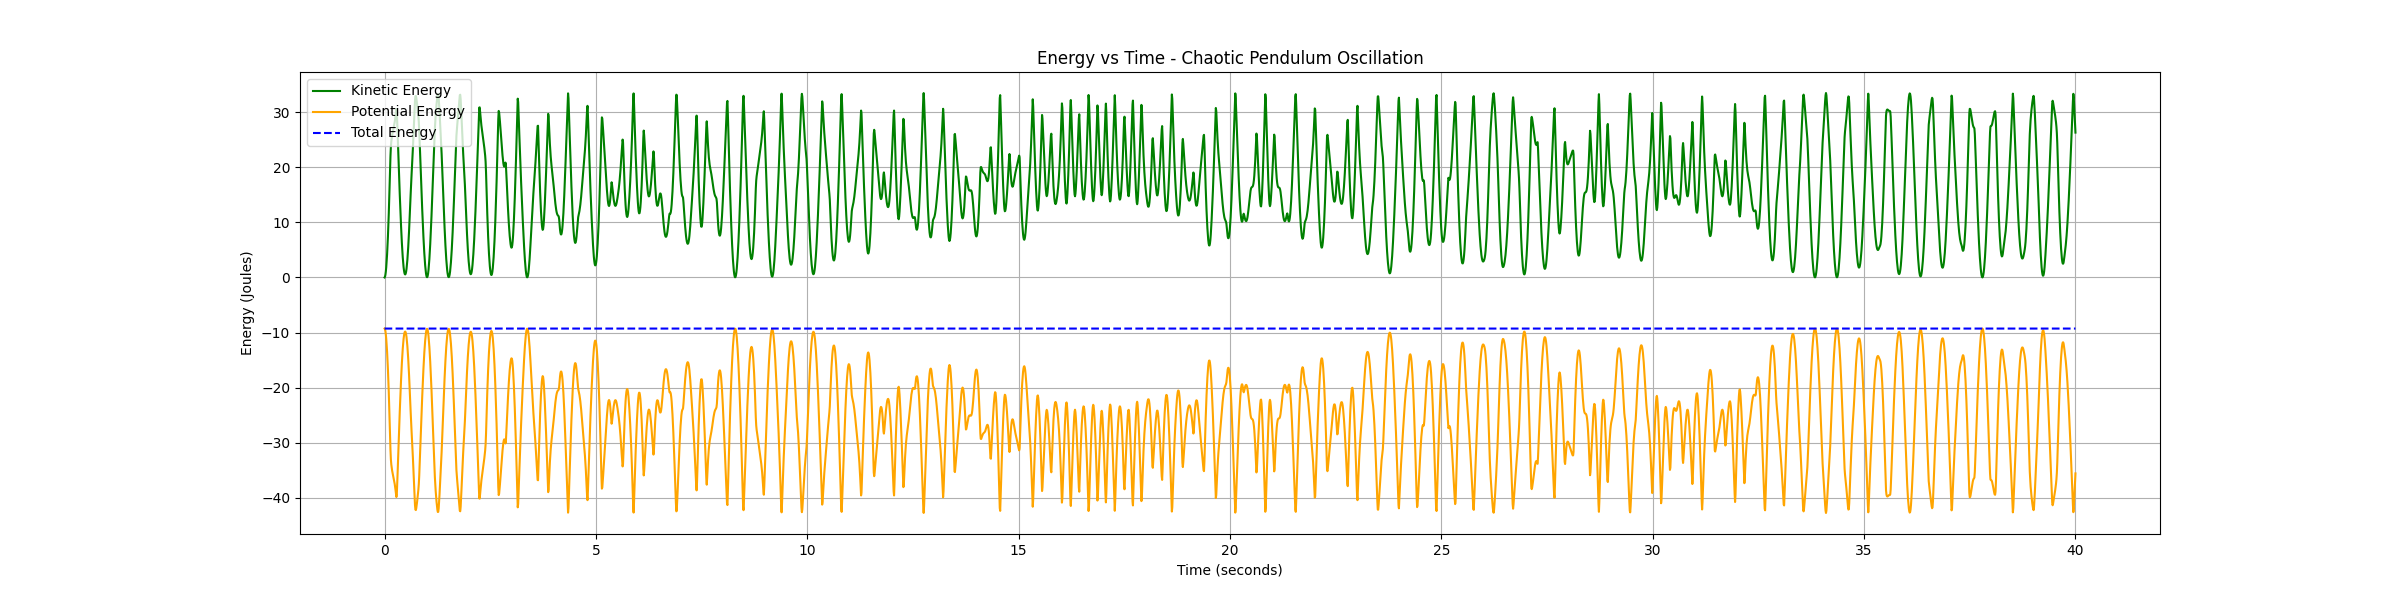
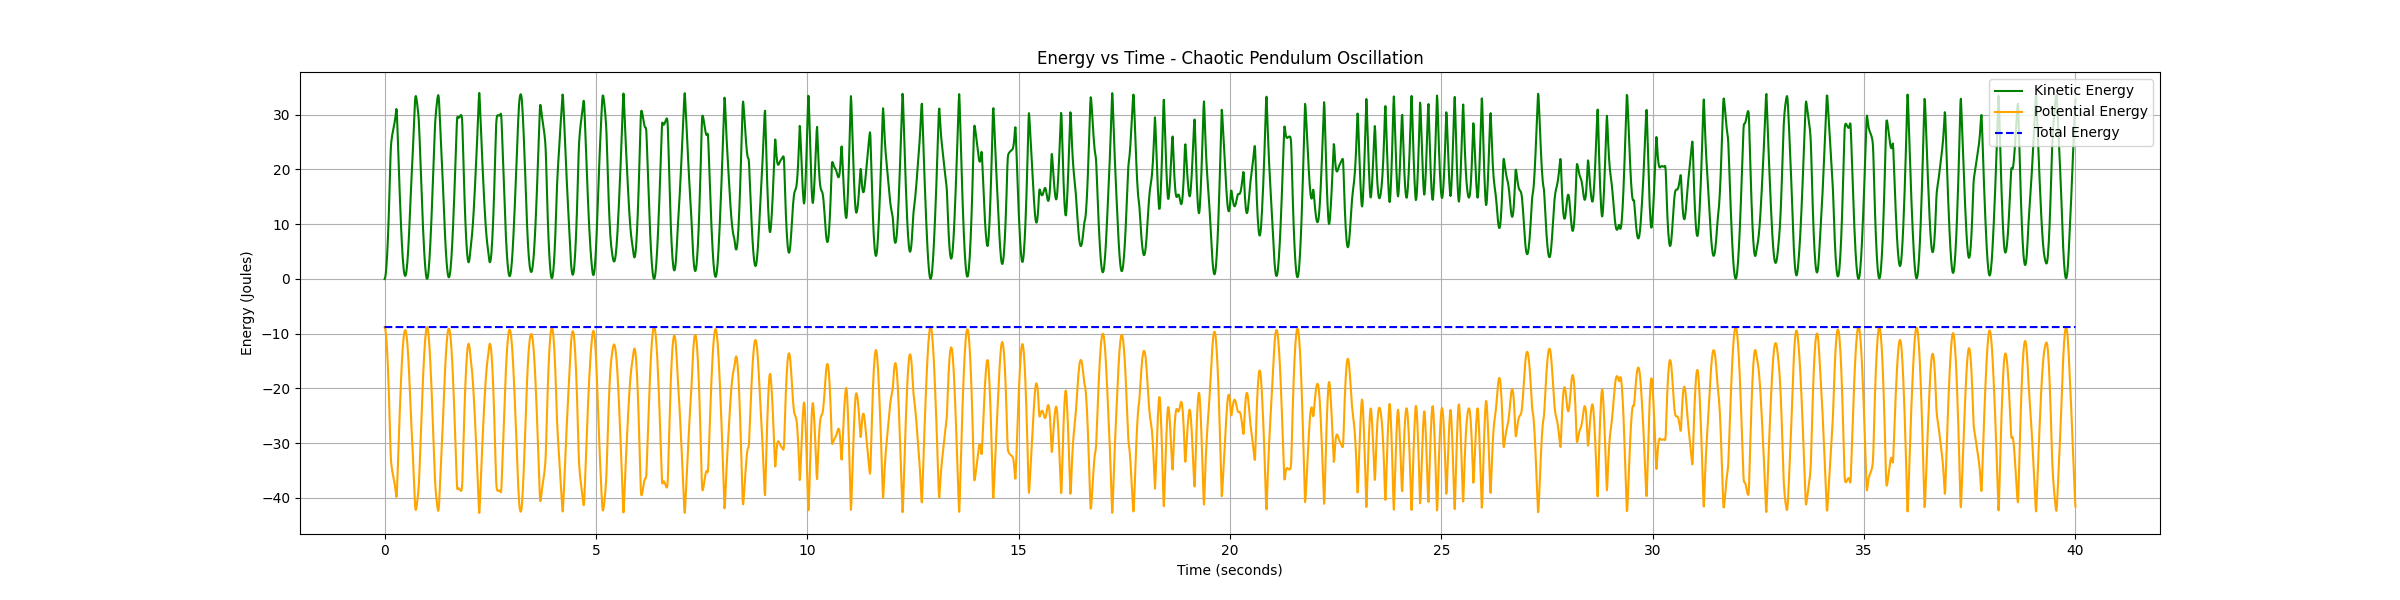
Add verification step

Changed region(s): [[0.0938, 0.12, 0.9062, 0.48], [0.125, 0.54, 0.875, 0.84]]

diff --git a/Simulations/simulation.py b/Simulations/simulation.py
@@ -5,15 +5,18 @@ from matplotlib.animation import FuncAnimation, PillowWriter
 from typing import NamedTuple, Tuple, List
 import math
 import os
+import json
+import hashlib
 
 CONFIG = {
     "title": "Chaotic Pendulum Oscillation",
     "sim_outpath": "./Simulations/sim_outfiles/",
+    "path_to_data": "C:\\Users\\adamf\\Downloads\\",
     "params": {
         "masses": (5.0, 4.0),
         "lengths": (0.525, 0.473),
         "gravity": 9.81,
-        "initial_angles": (1.5708, 0.0),
+        "initial_angles": (1.58544729307629, 0.007936341307466063),
         "initial_velocities": (0.0, 0.0), 
         "time_span": (0.0, 40.0),
         "num_points": 4000,
@@ -35,6 +38,18 @@ CartesianCoords = Tuple[float, float, float, float]
 
 def get_solver_params() -> dict:
     return CONFIG["params"]["solver"]
+
+def get_data_path() -> str:
+    # Convert tuples to lists for consistent hashing
+    params = CONFIG["params"].copy()
+    for key in ["masses", "lengths", "initial_angles", "initial_velocities"]:
+        if isinstance(params[key], tuple):
+            params[key] = list(params[key])
+    
+    param_hash = hashlib.sha256(
+        json.dumps(params, sort_keys=True).encode()
+    ).hexdigest()
+    return f"{CONFIG['path_to_data']}simulation_{param_hash}.txt"
 
 def equations_of_motion(t: float, y: StateVector) -> List[float]:
     m1, m2 = CONFIG["params"]["masses"]
@@ -59,18 +74,39 @@ def equations_of_motion(t: float, y: StateVector) -> List[float]:
 
     return [omega1, omega2, ddtheta1, ddtheta2]
 
-def solve_pendulum_ode() -> dict:
+def save_data(solution: dict, lengths: Tuple) -> None:
+    data = {
+        "y": solution["y"].tolist(),
+        "t": solution["t"].tolist(),
+        "lengths": list(lengths)
+    }
+    with open(get_data_path(), "w") as f:
+        json.dump(data, f)
+
+def load_saved_data() -> dict:
+    with open(get_data_path(), "r") as f:
+        data = json.load(f)
+        return {
+            "y": np.array(data["y"]),
+            "t": np.array(data["t"])
+        }
+
+def solve_pendulum_ode() -> Tuple[dict, Tuple]:
     t_span = CONFIG["params"]["time_span"]
     t_eval = np.linspace(*t_span, CONFIG["params"]["num_points"])
     y0 = (*CONFIG["params"]["initial_angles"], *CONFIG["params"]["initial_velocities"])
     
-    return solve_ivp(
+    sol = solve_ivp(
         fun=equations_of_motion,
         t_span=t_span,
         y0=y0,
         t_eval=t_eval,
         **get_solver_params()
     )
+    return {
+        "y": sol.y,
+        "t": sol.t
+    }, (CONFIG["params"]["lengths"])
 
 def get_cartesian_coords(theta1: float, theta2: float) -> CartesianCoords:
     l1, l2 = CONFIG["params"]["lengths"]
@@ -81,9 +117,9 @@ def get_cartesian_coords(theta1: float, theta2: float) -> CartesianCoords:
     return x1, y1, x2, y2
 
 def create_animation(solution: dict) -> FuncAnimation:
-    theta1 = solution.y[0]
-    theta2 = solution.y[1]
-    times = solution.t
+    theta1 = solution["y"][0]
+    theta2 = solution["y"][1]
+    times = solution["t"]
     
     fig, ax = plt.subplots()
     ax.set_xlim(-sum(CONFIG["params"]["lengths"]), sum(CONFIG["params"]["lengths"]))
@@ -116,9 +152,9 @@ def create_animation(solution: dict) -> FuncAnimation:
     return ani
 
 def process_pendulum_data(solution: dict) -> Tuple[List[PendulumData], List[PendulumData]]:
-    theta1 = solution.y[0]
-    theta2 = solution.y[1]
-    times = solution.t
+    theta1 = solution["y"][0]
+    theta2 = solution["y"][1]
+    times = solution["t"]
     
     arm1_data = [
         PendulumData(t, math.atan2(x, (-y)), (x, y))
@@ -155,7 +191,7 @@ def plot_3d_trajectory(arm1: List[PendulumData], arm2: List[PendulumData]) -> No
     fig = plt.figure()
     ax = fig.add_subplot(111, projection='3d')
     
-    ax.plot(0,[d.time for d in arm1],0,label="Pivot", color="g")
+    ax.plot(0, [d.time for d in arm1], 0, label="Pivot", color="g")
 
     ax.plot(
         [d.position[0] for d in arm1],
@@ -180,21 +216,21 @@ def plot_3d_trajectory(arm1: List[PendulumData], arm2: List[PendulumData]) -> No
     plt.show()
 
 def compute_energy(solution: dict):
-    # Extract simulation data
-    theta1 = solution.y[0]
-    theta2 = solution.y[1]
-    omega1 = solution.y[2]
-    omega2 = solution.y[3]
-    t = solution.t
+    theta1 = solution["y"][0]
+    theta2 = solution["y"][1]
+    omega1 = solution["y"][2]
+    omega2 = solution["y"][3]
+    t = solution["t"]
 
-    # Retrieve constants from the config
     m1, m2 = CONFIG["params"]["masses"]
     l1, l2 = CONFIG["params"]["lengths"]
     g = CONFIG["params"]["gravity"]
 
-    T = ((1/24)*(m1+(4*m2))*(l1**2)*(omega1**2))+((1/24)*m2*(l2**2)*(omega2**2))+((1/6)*m2*l1*l2*omega1*omega2*np.cos(theta1-theta2))
+    T = ((1/24)*(m1 + 4*m2)*(l1**2)*(omega1**2) + 
+         (1/24)*m2*(l2**2)*(omega2**2) + 
+         (1/6)*m2*l1*l2*omega1*omega2*np.cos(theta1 - theta2))
 
-    V = - ((1/2)*(m1+(2*m2)) * g * l1 * np.cos(theta1)) - ((1/2)*m2*g*l2*np.cos(theta2))
+    V = -((1/2)*(m1 + 2*m2)*g*l1*np.cos(theta1)) - (1/2)*m2*g*l2*np.cos(theta2)
 
     E = T + V
     return t, T, V, E
@@ -215,9 +251,16 @@ def plot_energy(solution: dict):
     plt.show()
 
 def main():
-    solution = solve_pendulum_ode()
-    create_animation(solution)
-    arm1_data, arm2_data = process_pendulum_data(solution)
+    data_path = get_data_path()
+    
+    if os.path.exists(data_path):
+        solution = load_saved_data()
+        arm1_data, arm2_data = process_pendulum_data(solution)
+    else:
+        solution, lengths = solve_pendulum_ode()
+        arm1_data, arm2_data = process_pendulum_data(solution)
+        save_data(solution, lengths)
+        create_animation(solution)
     
     plot_angle_comparison(arm1_data, arm2_data)
     plot_3d_trajectory(arm1_data, arm2_data)

diff --git a/Verification/verificiation.py b/Verification/verificiation.py
@@ -1,0 +1,146 @@
+import matplotlib.pyplot as plt
+import numpy as np
+import math
+import json
+from typing import Tuple, List, NamedTuple
+
+CONFIG = {
+    "title": "Verification of the Simulation with Respect to Real Life",
+    "path_to_data": "C:\\Users\\adamf\\Downloads\\",
+    "sim_data_name": "simulation_99eca7f166d6a14cf96786b53cc3b9aacca062bd6ec066104e0fa7f0e56599c1.txt",
+    "vid_data_name": "DSC_0058.txt",
+    "ver_outpath": "./Verification/ver_outfiles/"
+}
+
+class PendulumData(NamedTuple):
+    time: float
+    angle: float
+    position: Tuple[float, float]
+
+Point = Tuple[int, int]
+LEDData = List[Tuple[float, float, Point]]
+CartesianCoords = Tuple[float, float, float, float]
+
+def get_vid_data_path() -> str:
+    return f"{CONFIG['path_to_data']}{CONFIG['vid_data_name']}"
+
+def get_data_sim_path() -> str:
+    return f"{CONFIG['path_to_data']}{CONFIG['sim_data_name']}"
+
+def load_saved_vid_data() -> Tuple[Point, LEDData, LEDData]:
+    with open(get_vid_data_path(), "r") as f:
+        pivot, first_led, second_led = None, [], []
+        for line in f:
+            key, value = line.split(":", 1)
+            if key == "Pivot":
+                pivot = json.loads(value)
+            elif key == "firstLED":
+                first_led = json.loads(value)
+            elif key == "secondLED":
+                second_led = json.loads(value)
+        return pivot, first_led, second_led
+
+def load_saved_data() -> dict:
+    with open(get_data_sim_path(), "r") as f:
+        data = json.load(f)
+        return {
+            "y": np.array(data["y"]),
+            "t": np.array(data["t"]),
+            "lengths": np.array(data["lengths"])
+        }
+    
+def get_cartesian_coords(theta1: float, theta2: float, lengths: Tuple) -> CartesianCoords:
+    x1 = lengths[0] * np.sin(theta1)
+    y1 = -lengths[0] * np.cos(theta1)
+    x2 = x1 + lengths[1] * np.sin(theta2)
+    y2 = y1 - lengths[1] * np.cos(theta2)
+    return x1, y1, x2, y2
+
+
+def process_pendulum_data(solution: dict) -> Tuple[List[PendulumData], List[PendulumData]]:
+    theta1 = solution["y"][0]
+    theta2 = solution["y"][1]
+    times = solution["t"]
+    
+    arm1_data = [
+        PendulumData(t, math.atan2(x, (-y)), (x, y))
+        for t, x, y in zip(times, *get_cartesian_coords(theta1, theta2, (solution["lengths"][0],solution["lengths"][1]))[:2])
+    ]
+    
+    arm2_data = [
+        PendulumData(t, math.atan2(x, (-y)), (x, y))
+        for t, x, y in zip(times, *get_cartesian_coords(theta1, theta2, (solution["lengths"][0],solution["lengths"][1]))[2:])
+    ]
+    
+    return arm1_data, arm2_data
+
+
+def plot_deviation(
+    arm1: List[PendulumData], 
+    arm2: List[PendulumData], 
+    data1: LEDData, 
+    data2: LEDData
+) -> None:
+    # Convert simulation data to arrays
+    sim_times = np.array([d.time for d in arm1])
+    sim_ang1 = np.array([math.degrees(d.angle) for d in arm1])
+    sim_ang2 = np.array([math.degrees(d.angle) for d in arm2])
+    
+    # Convert video data to arrays
+    vid_times = np.array([d[0] for d in data1])
+    vid_ang1 = np.array([math.degrees(d[1]) for d in data1])
+    vid_ang2 = np.array([math.degrees(d[1]) for d in data2])
+
+    # Detect motion start in video data
+    def find_motion_start(angles: np.ndarray, window_size=5, threshold=1.0):
+        diffs = np.abs(np.diff(angles))
+        moving_avg = np.convolve(diffs, np.ones(window_size)/window_size, mode='valid')
+        start_idx = np.argmax(moving_avg > threshold) + window_size
+        return max(start_idx, 0)  # Ensure we don't get negative index
+
+    start_idx = find_motion_start(vid_ang1)
+
+    # Trim video data to motion period
+    vid_times = vid_times[start_idx:] - vid_times[start_idx]  # Make time start at 0
+    vid_ang1 = vid_ang1[start_idx:]
+    vid_ang2 = vid_ang2[start_idx:]
+
+    # Adjust simulation data to match video start
+    sim_start_time = sim_times[np.argmin(np.abs(sim_times - vid_times[0]))]
+    sim_mask = sim_times >= sim_start_time
+    sim_times = sim_times[sim_mask] - sim_start_time
+    sim_ang1 = sim_ang1[sim_mask]
+    sim_ang2 = sim_ang2[sim_mask]
+
+    # Interpolate simulation data to video timestamps
+    interp_ang1 = np.interp(vid_times, sim_times, sim_ang1)
+    interp_ang2 = np.interp(vid_times, sim_times, sim_ang2)
+    
+    # Calculate differences
+    diff1 = vid_ang1 - interp_ang1
+    diff2 = vid_ang2 - interp_ang2
+    
+    # Create plot
+    plt.figure(figsize=(24, 6))
+    plt.plot(vid_times, diff1, label="Arm 1 Deviation", color='b')
+    plt.plot(vid_times, diff2, label="Arm 2 Deviation", color='r')
+    
+    plt.xlabel("Time from Motion Start (seconds)")
+    plt.ylabel("Angle Difference (degrees)")
+    plt.title(f"{CONFIG['title']}")
+    plt.legend()
+    plt.grid(True)
+    
+    plt.savefig(f"{CONFIG['ver_outpath']}{CONFIG['title']}.png")
+    plt.show()
+
+def main():
+    sim = load_saved_data()
+    arm1, arm2 = process_pendulum_data(sim)
+    pivot, first, second = load_saved_vid_data()
+
+    plot_deviation(arm1, arm2, first, second)
+
+
+if __name__ == "__main__":
+    main()
